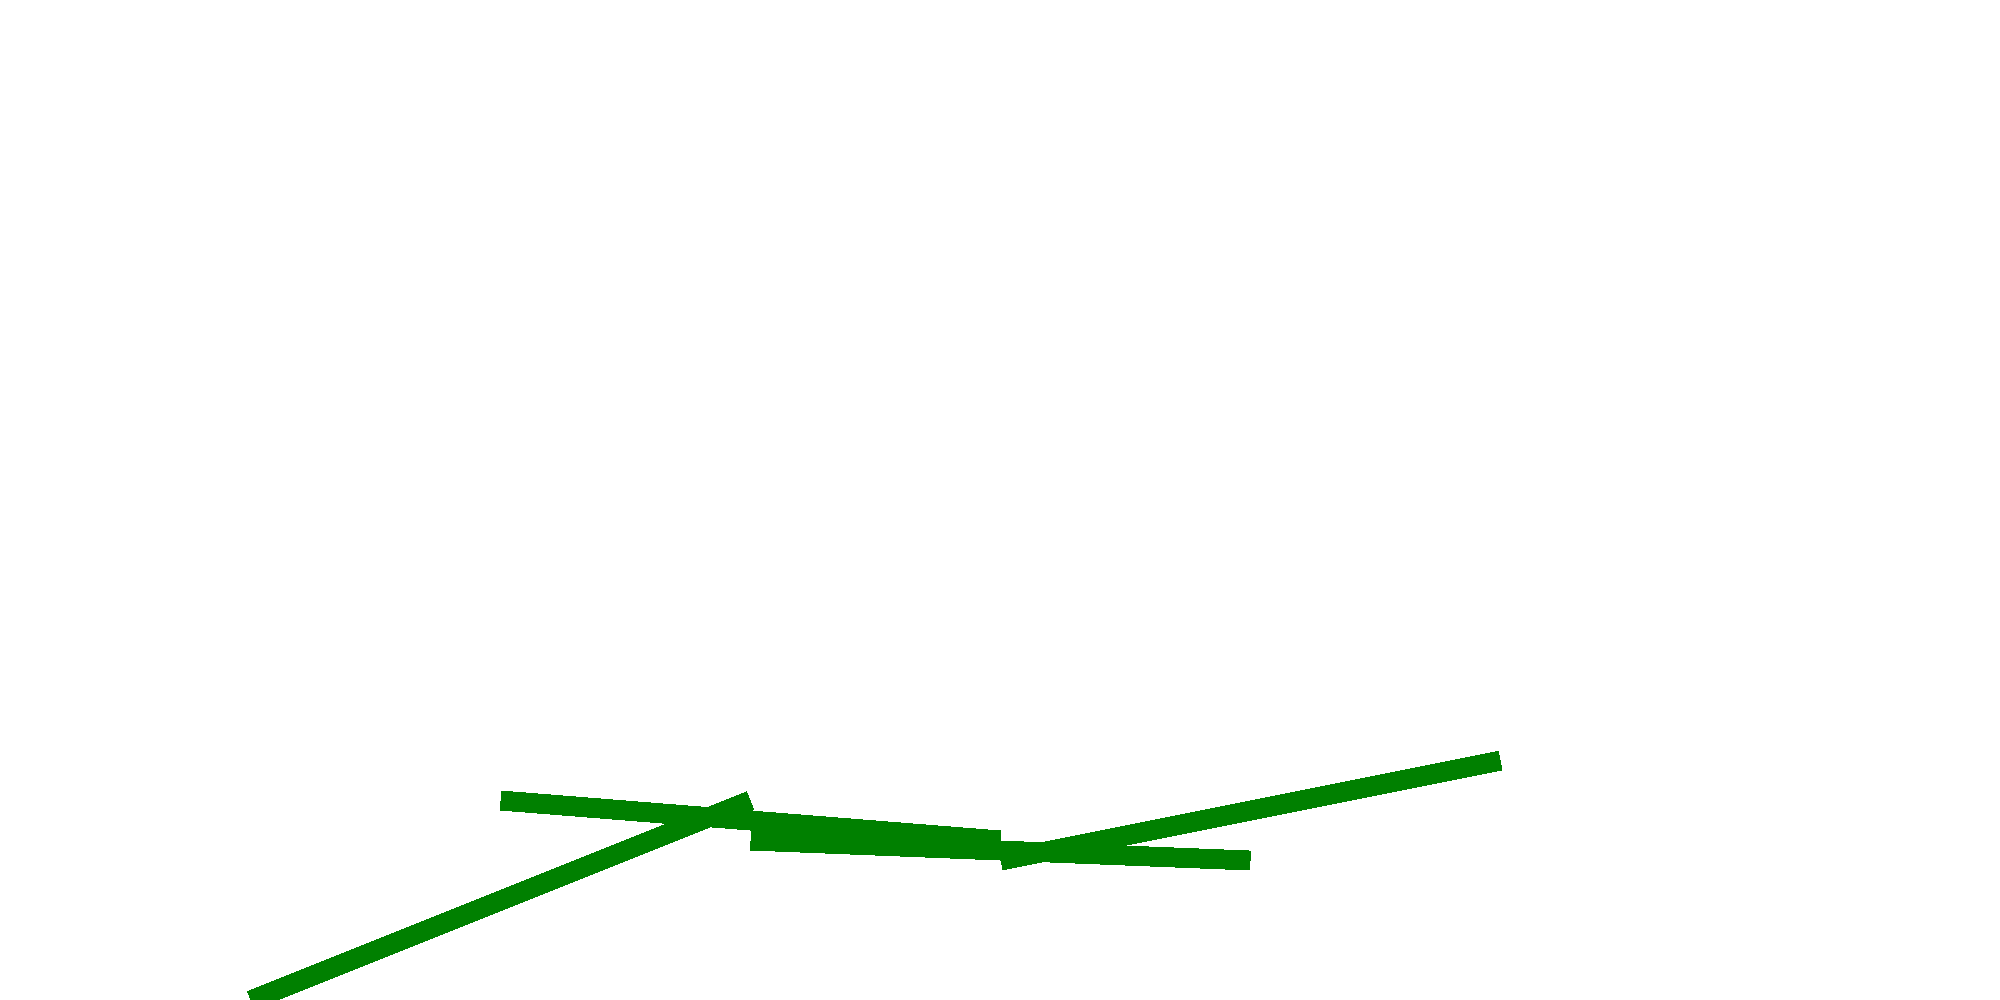
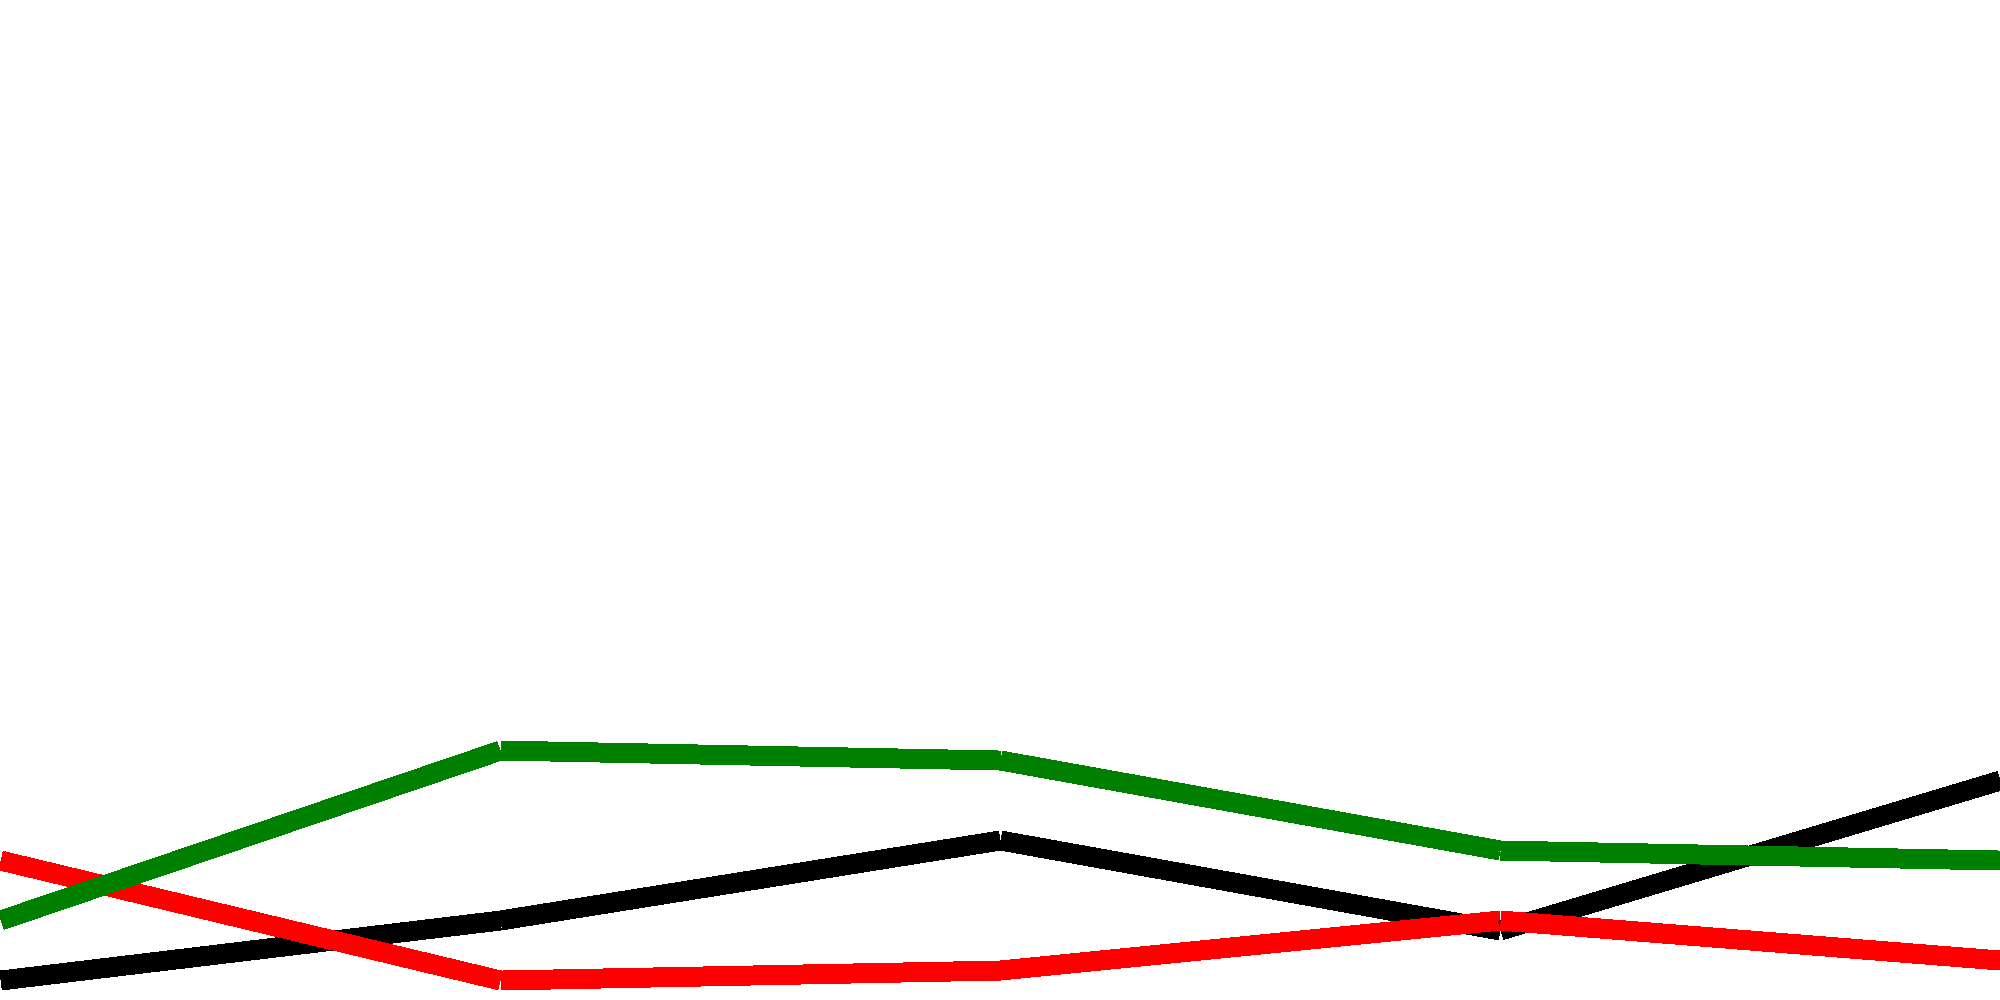
Fix graphics lines

Changed region(s): [[0.0, 0.744, 1.0, 1.0]]

diff --git a/Assets/Statistics/ImageScript.cs b/Assets/Statistics/ImageScript.cs
@@ -3,6 +3,7 @@ using System.Collections;
 using System.Drawing;
 using UnityEngine.UI;
 using System.Collections.Generic;
+//using System.Windows.Forms;
 using System;
 
 public class ImageScript : MonoBehaviour {
@@ -15,43 +16,50 @@ public class ImageScript : MonoBehaviour {
 		Pen redPen = new Pen(System.Drawing.Color.Red, 20);
 
 		using(var graphics = System.Drawing.Graphics.FromImage(bmp)){
-			/*
-			Measure[] measure;
-			Player player1 = PlayerDAO.getPlayer(1);
-			if(gameObject.name == "ImageVelocity"){
-				measure = player1.velocities.ToArray();
-			}else if(gameObject.name == "ImageElectrodermal"){
-				measure = player1.electrodermalActivities.ToArray();
-			}else{
-				measure = player1.heartRates.ToArray();
-			}
-
-
-			int x = 2000/measure.Length;
-			Measure last = new Measure(0, 0, 0);
-
-			for(int i=0; i < measure.Length; i++){
-				int x1 = x*(i+1);
-				int y1 = 1000 - (last.max * 10);
-				int x2 = x*(i+2);
-				int y2 = 1000 - (measure[i].max * 10);
-				graphics.DrawLine(greenPen, x1 ,y1, x2, y2);
-				last = measure[i];
-			}
-			*/
-
-			int x = 250, j = 1;
+			long count = DatabaseSingleton.Instance.db.SelectCount("from Measure where playerId==?", Convert.ToInt64(1));
+		
+			int rounds = (Convert.ToInt32(count)/3);
+			int x = 2000/rounds;
+			int j = 0;
 			Measure last = new Measure(0, 0, 0, 0, 0, 0);
 			foreach(var i in DatabaseSingleton.Instance.db.Select<Measure>("from Measure where playerId==? order by type", Convert.ToInt64(1))){
-				int x1 = x*j++;
+				int x1 = x*j;
 				int y1 = 1000 - (last.average * 10);
 				int x2 = x*(j+1);
 				int y2 = 1000 - (i.average * 10);
 
-				if(i.type == 0){
-					graphics.DrawLine(greenPen, x1 ,y1, x2, y2);
+				int x3 = x*j;
+				int y3 = 1000 - (last.min * 10);
+				int x4 = x*(j+1);
+				int y4 = 1000 - (i.min * 10);
+
+				int x5 =  x*j;
+				int y5 = 1000 - (last.max * 10);
+				int x6 = x*(j+1);
+				int y6 = 1000 - (i.max * 10);
+
+				if(i.type == 0 && gameObject.name == "ImageVelocity"){
+					graphics.DrawLine(blackPen, x1 ,y1, x2, y2);
+					graphics.DrawLine(redPen, x3 ,y3, x4, y4);
+					graphics.DrawLine(greenPen, x5 ,y5, x6, y6);
+
+					//graphics.TextRenderingHint = System.Drawing.Text.TextRenderingHint.AntiAliasGridFit;
+					//TextRenderer.DrawText(graphics, "Hello World",  new System.Drawing.Font("Arial", 12), new Point(0, y4), System.Drawing.Color.Red);
+
+				}else if(i.type == 1 && gameObject.name == "ImageHeart"){
+					graphics.DrawLine(blackPen, x1 ,y1, x2, y2);
+					graphics.DrawLine(redPen, x3 ,y3, x4, y4);
+					graphics.DrawLine(greenPen, x5 ,y5, x6, y6);
+				}else if (i.type == 2 && gameObject.name == "ImageElectrodermal"){
+					graphics.DrawLine(blackPen, x1 ,y1, x2, y2);
+					graphics.DrawLine(redPen, x3 ,y3, x4, y4);
+					graphics.DrawLine(greenPen, x5 ,y5, x6, y6);
+
 				}
 				last = i;
+				j++;
+				if(j%rounds == 0)j=0;
+			
 			}
 
 		}

diff --git a/Assets/Statistics/EmulateValues.cs b/Assets/Statistics/EmulateValues.cs
@@ -4,10 +4,10 @@ using System.Collections.Generic;
 
 public class EmulateValues : MonoBehaviour{
 		void Start (){
-			Measure velocity = new Measure(1, 2, 34, 2, 14, 1);
-			Measure velocity2 = new Measure(2, 2, 35, 1, 4, 1);
-			Measure velocity3 = new Measure(3, 2, 34, 5, 20, 1);
-			Measure velocity4 = new Measure(4, 2, 75, 10 ,6, 1);
+			Measure velocity = new Measure(1, 0, 8, 13, 6, 1);
+			Measure velocity2 = new Measure(2, 0, 6, 12, 18, 1);
+			Measure velocity3 = new Measure(3, 0, 8, 14, 2, 1);
+			Measure velocity4 = new Measure(4, 0, 9, 18 ,27, 1);
 
 			//print(DatabaseSingleton.Instance.db.Insert ("Measure", velocity, velocity2, velocity3, velocity4));
 
